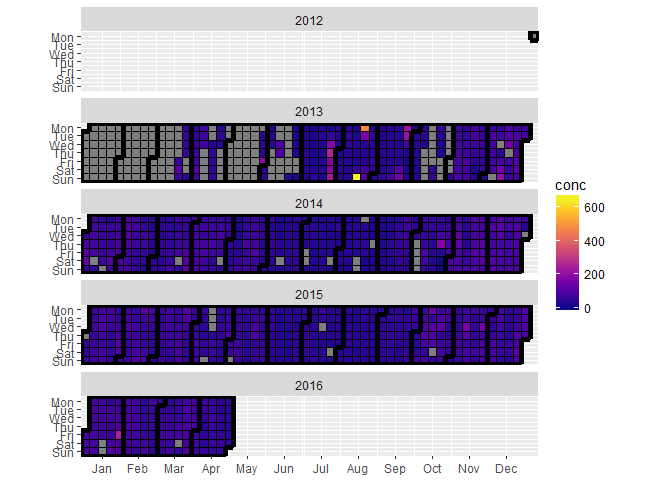
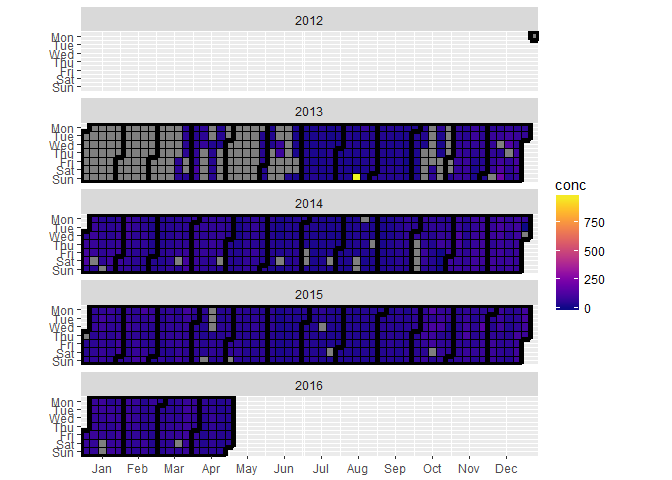
median instead of mean

diff --git a/README.md b/README.md
@@ -50,7 +50,7 @@ usaqmindia_plot()
 
 ![](README_files/figure-markdown_github/unnamed-chunk-2-1.png)<!-- -->
 
-And this is a calendar plot of daily concentrations in one city using the [`ggTimeSeries`](https://github.com/Ather-Energy/ggTimeSeries) package (see the code [here](R/calendar.R)):
+And this is a calendar plot of daily median concentrations in one city using the [`ggTimeSeries`](https://github.com/Ather-Energy/ggTimeSeries) package (see the code [here](R/calendar.R)):
 
 ``` r
 usaqmindia_calendar(city = "Hyderabad")
